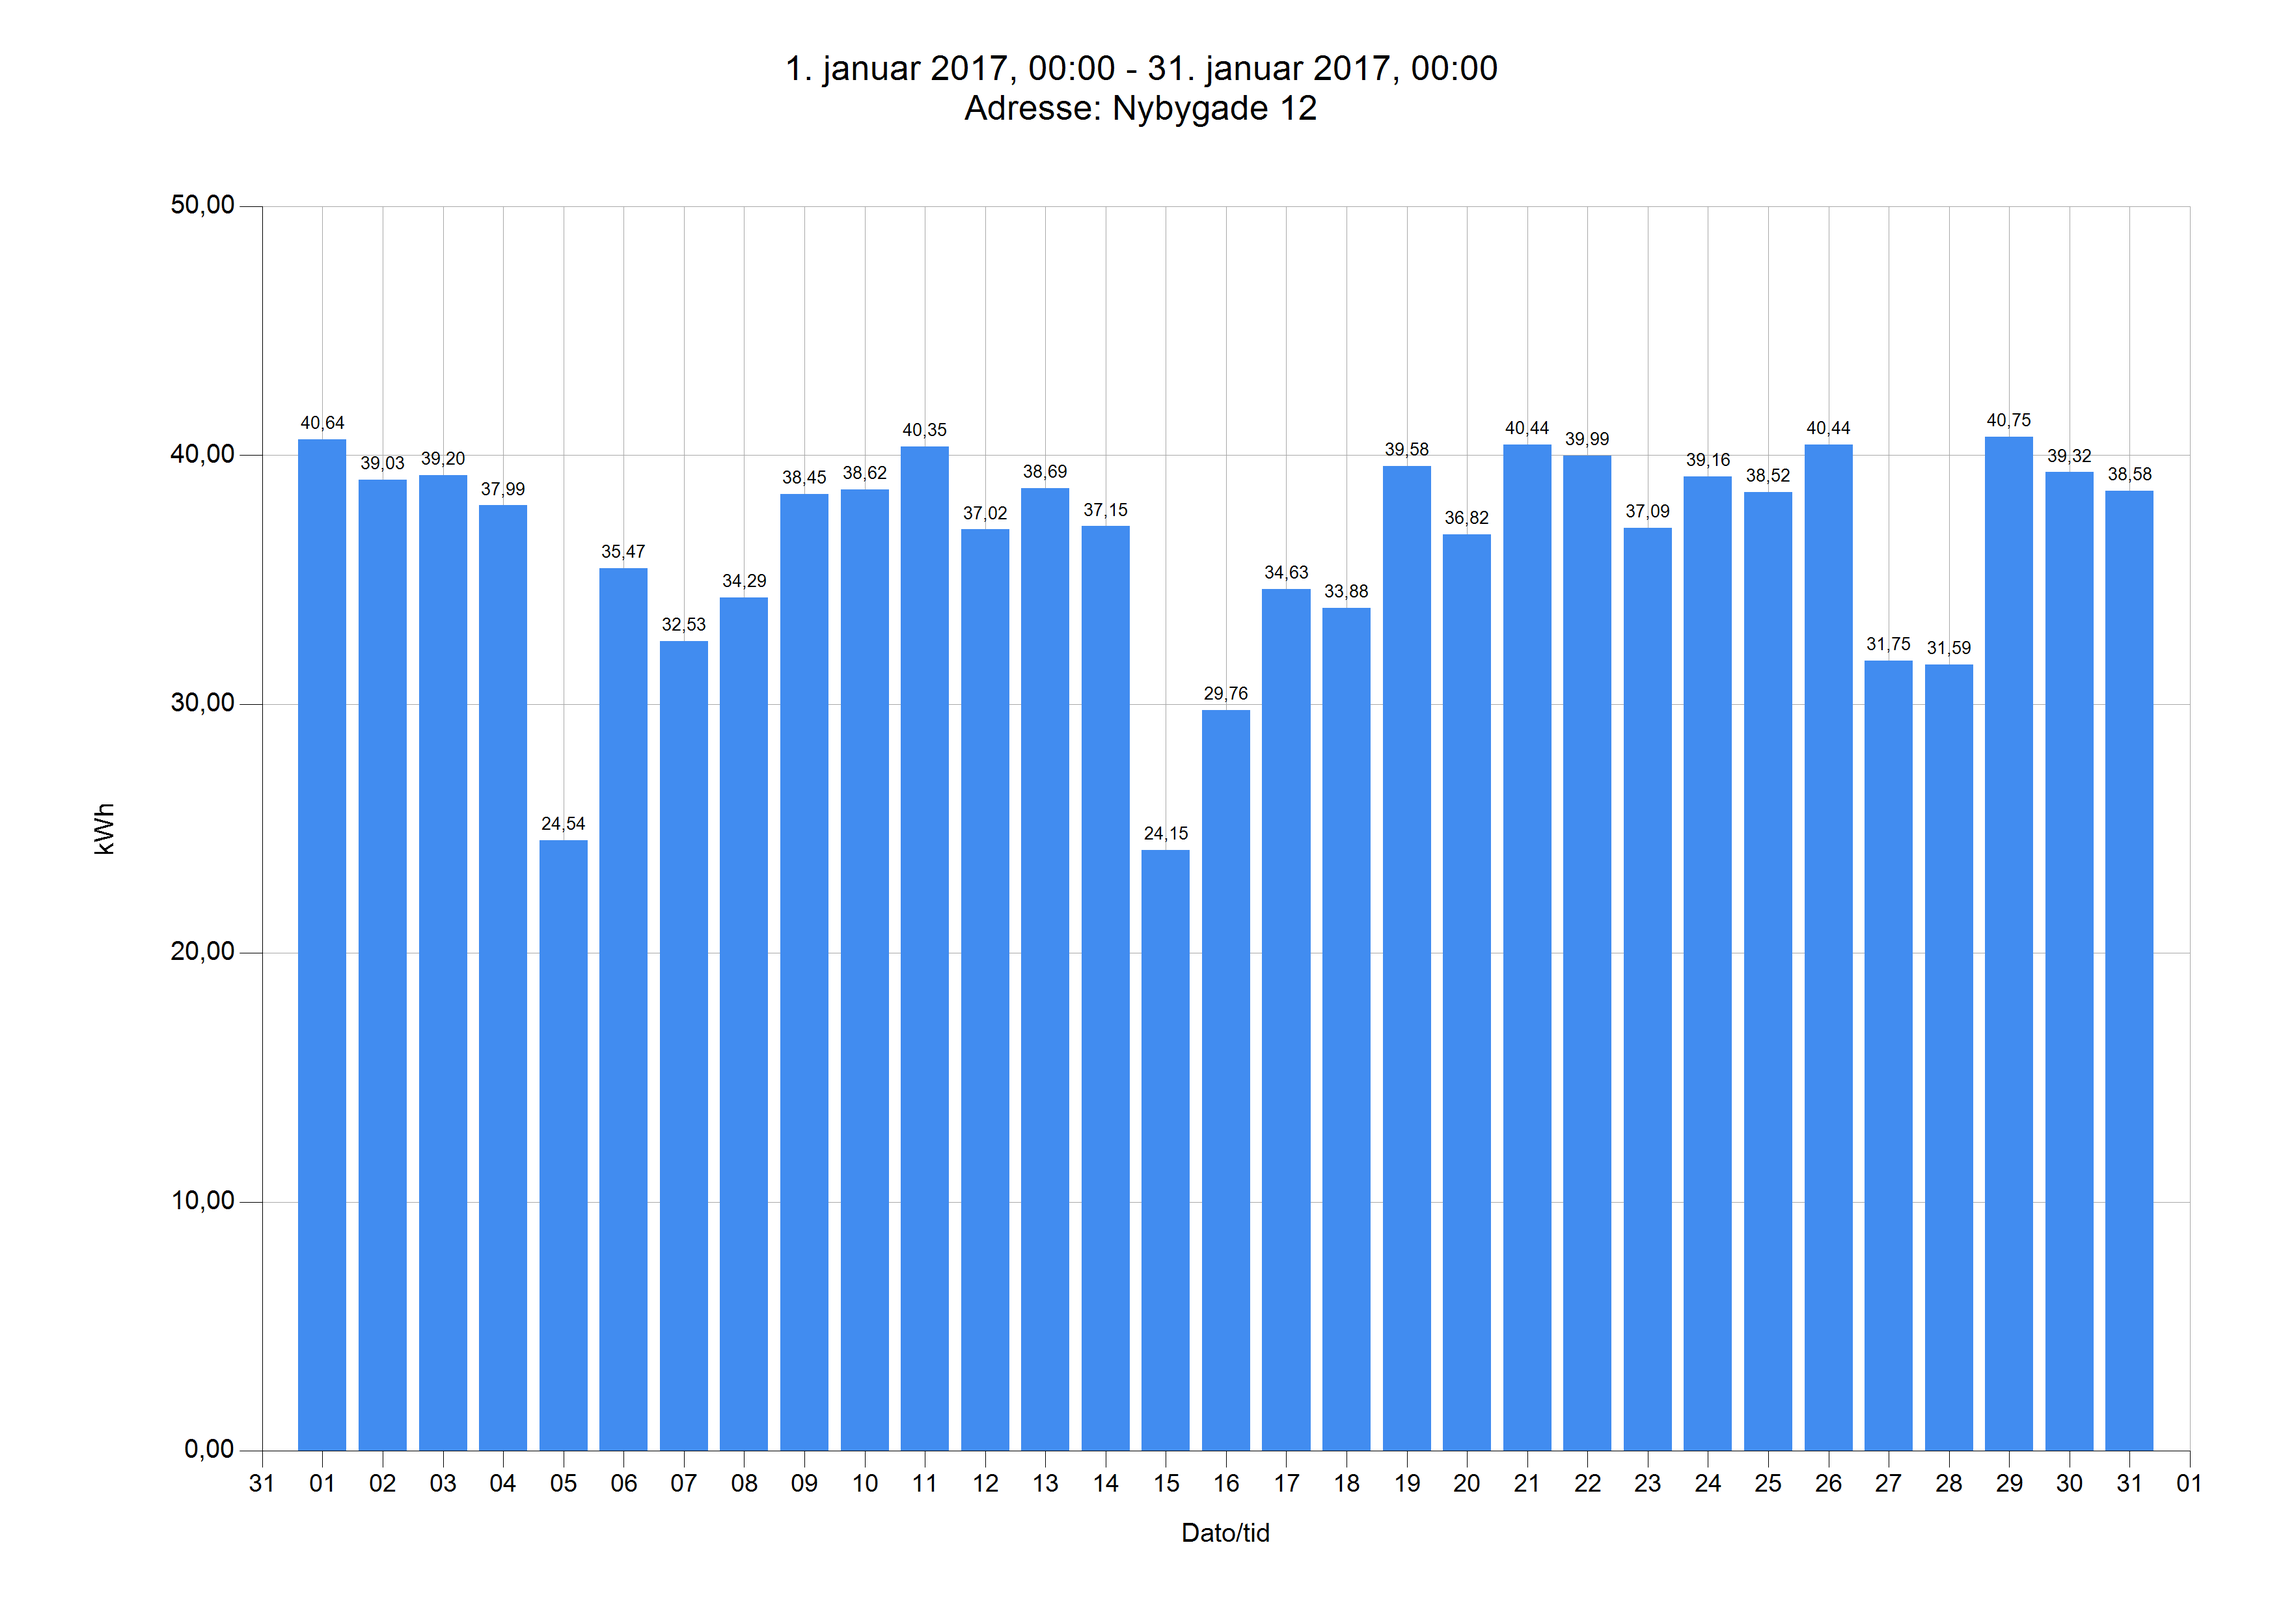
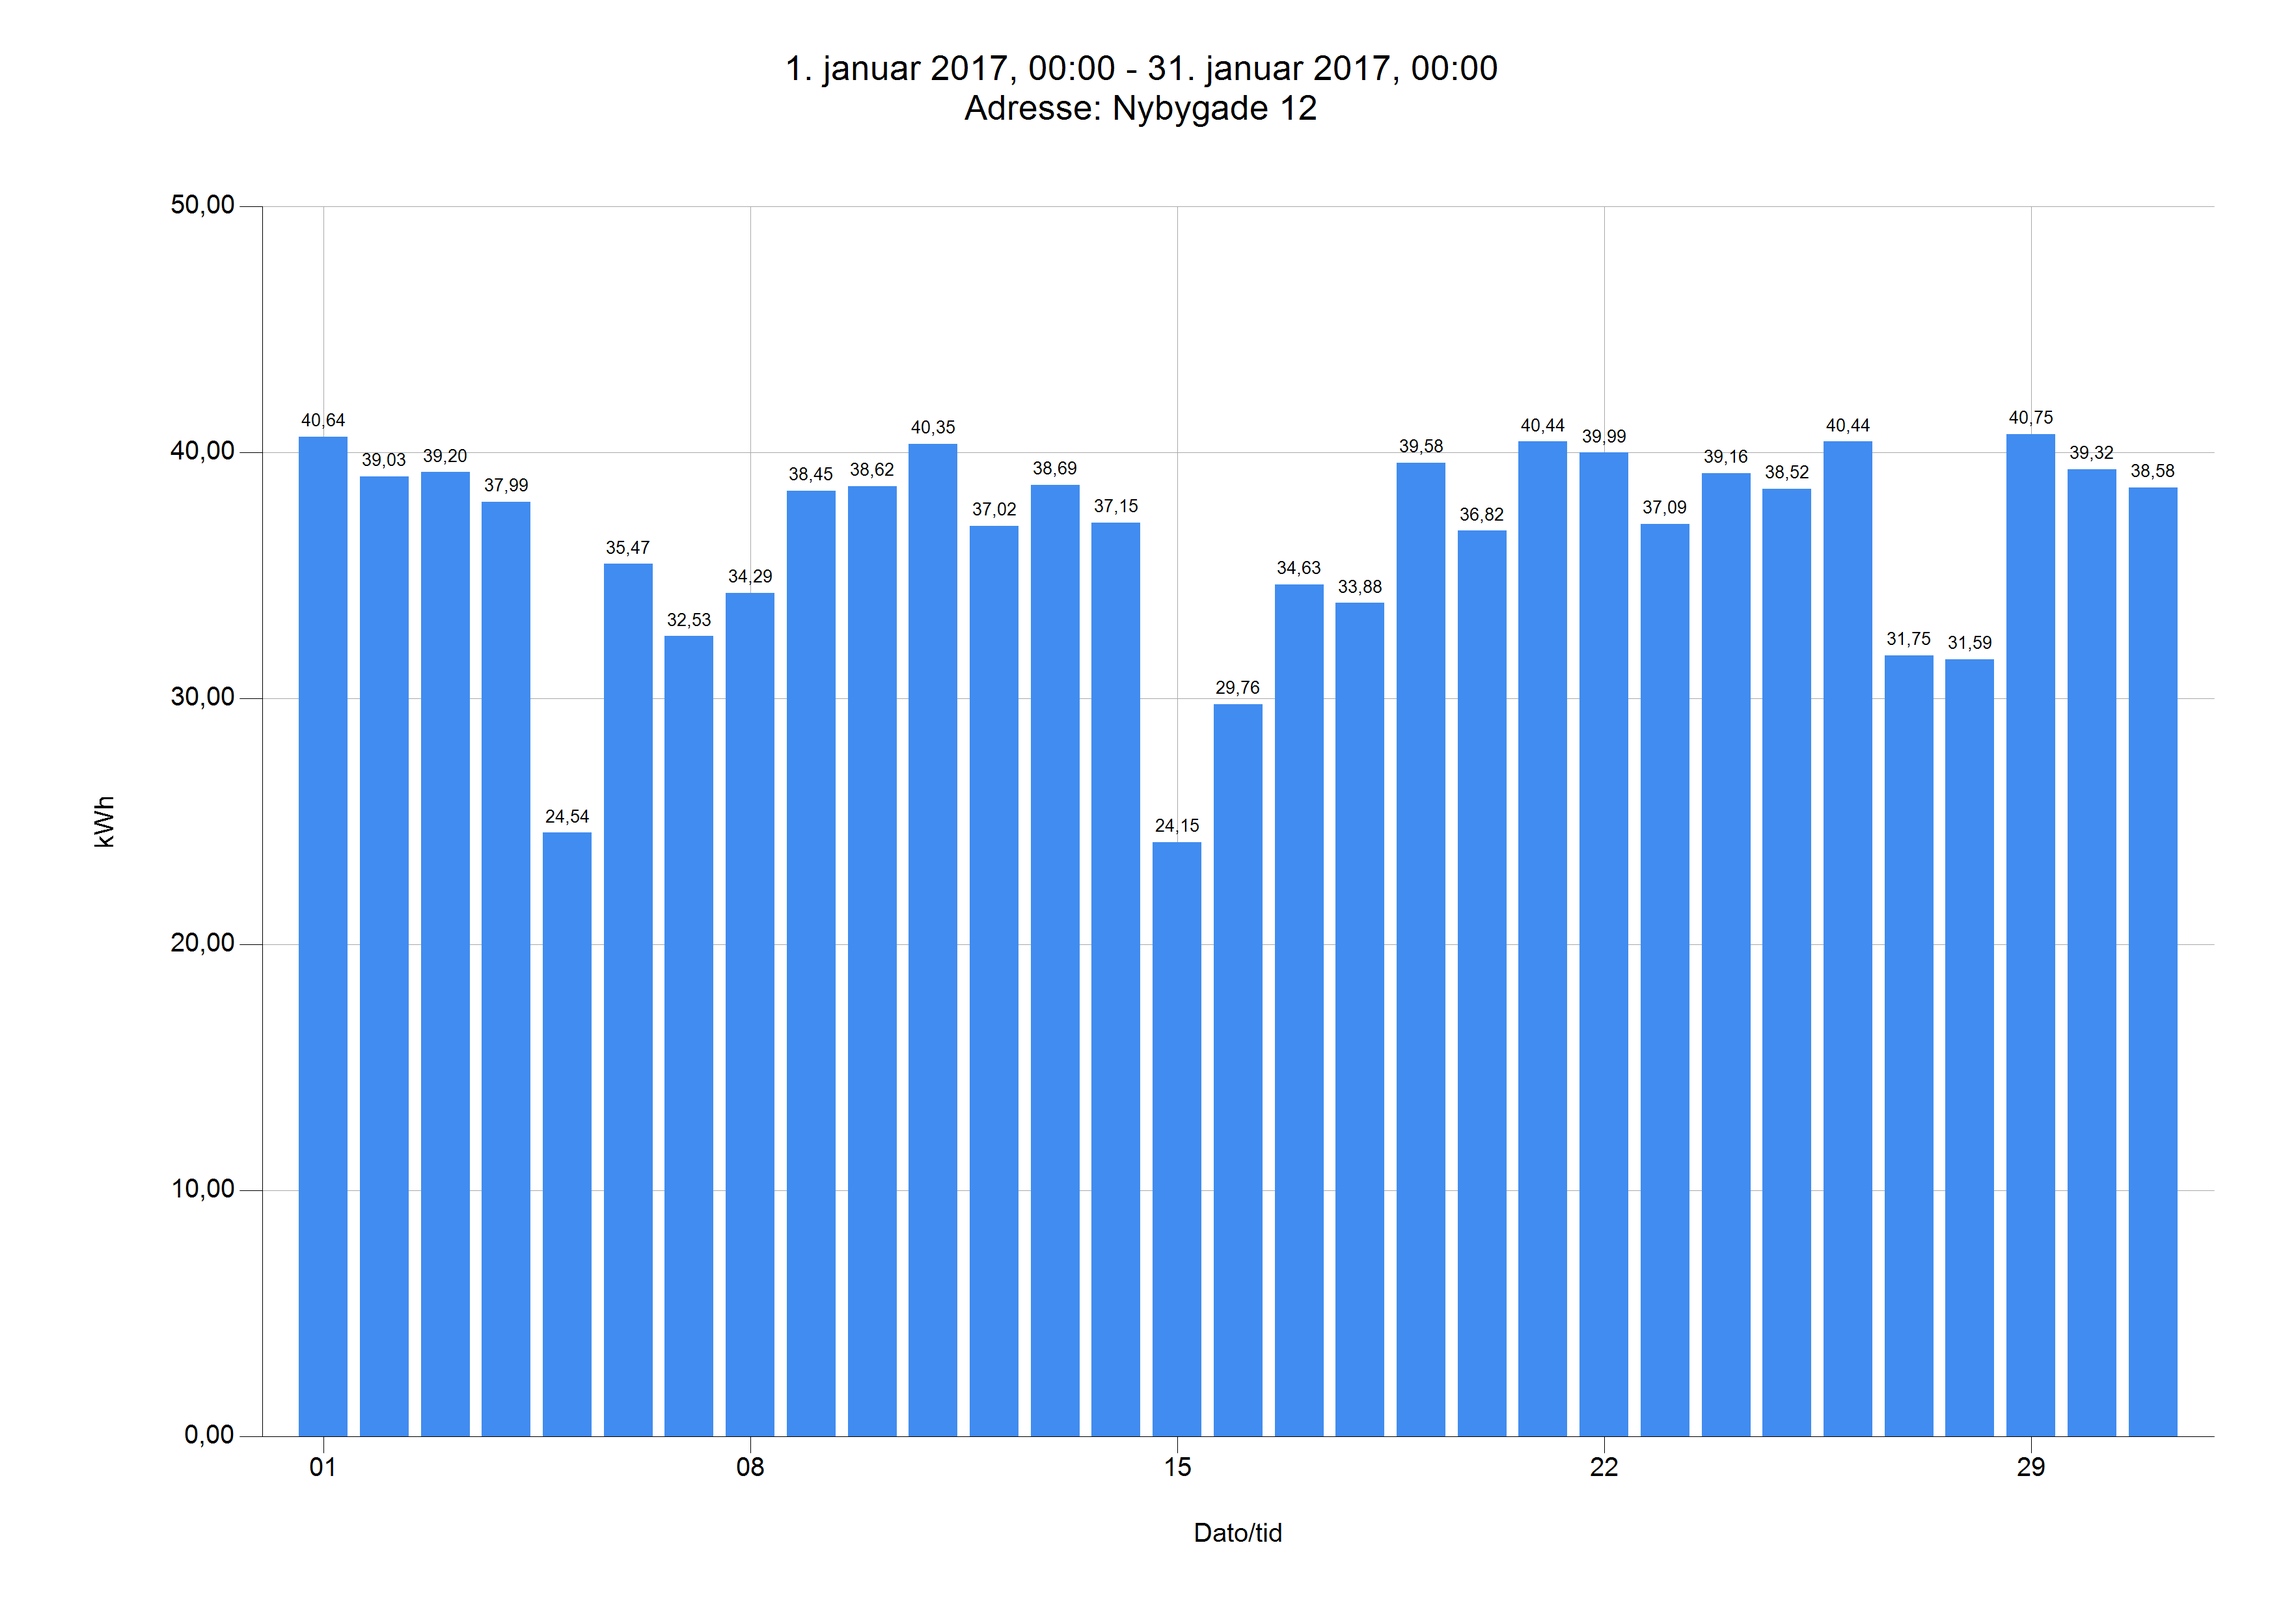
Changed fornats for charts

diff --git a/Protograph1/Datasets/SEAS1.cs b/Protograph1/Datasets/SEAS1.cs
@@ -46,13 +46,12 @@ namespace Protograph.Datasets
             chartArea.AxisY.Title = YUnit;
             chartArea.AxisY.TitleFont = new Font("Arial", 30);
             chartArea.AxisX.LabelAutoFitMinFontSize = 20;
-            chartArea.AxisY.LabelAutoFitMinFontSize = 20;
+            chartArea.AxisY.LabelAutoFitMinFontSize = 10;
             chartArea.AxisX.LabelAutoFitMaxFontSize = 30;
             chartArea.AxisY.LabelAutoFitMaxFontSize = 30;
             chartArea.AxisX.MajorGrid.LineColor = Color.DarkGray;
             chartArea.AxisY.MajorGrid.LineColor = Color.DarkGray;
-            if (X.Length < 40) chartArea.AxisX.Interval = 1;
-            else chartArea.AxisX.IntervalAutoMode = IntervalAutoMode.VariableCount;
+            //chartArea.AxisX.Interval = 1;
             chart.ChartAreas.Add(chartArea);
 
             var series = new Series();
@@ -63,8 +62,7 @@ namespace Protograph.Datasets
             series.Font = new Font("Arial", 20);
             series.LabelFormat = "N2";
             series.LabelAngle = 90;
-            if (X.Length < 40) series.IsValueShownAsLabel = true;
-            else series.IsValueShownAsLabel = false;
+            series.IsValueShownAsLabel = true;
             series.IsXValueIndexed = false;
             Title title = new Title();
             title.Font = new Font("Arial", 40);
